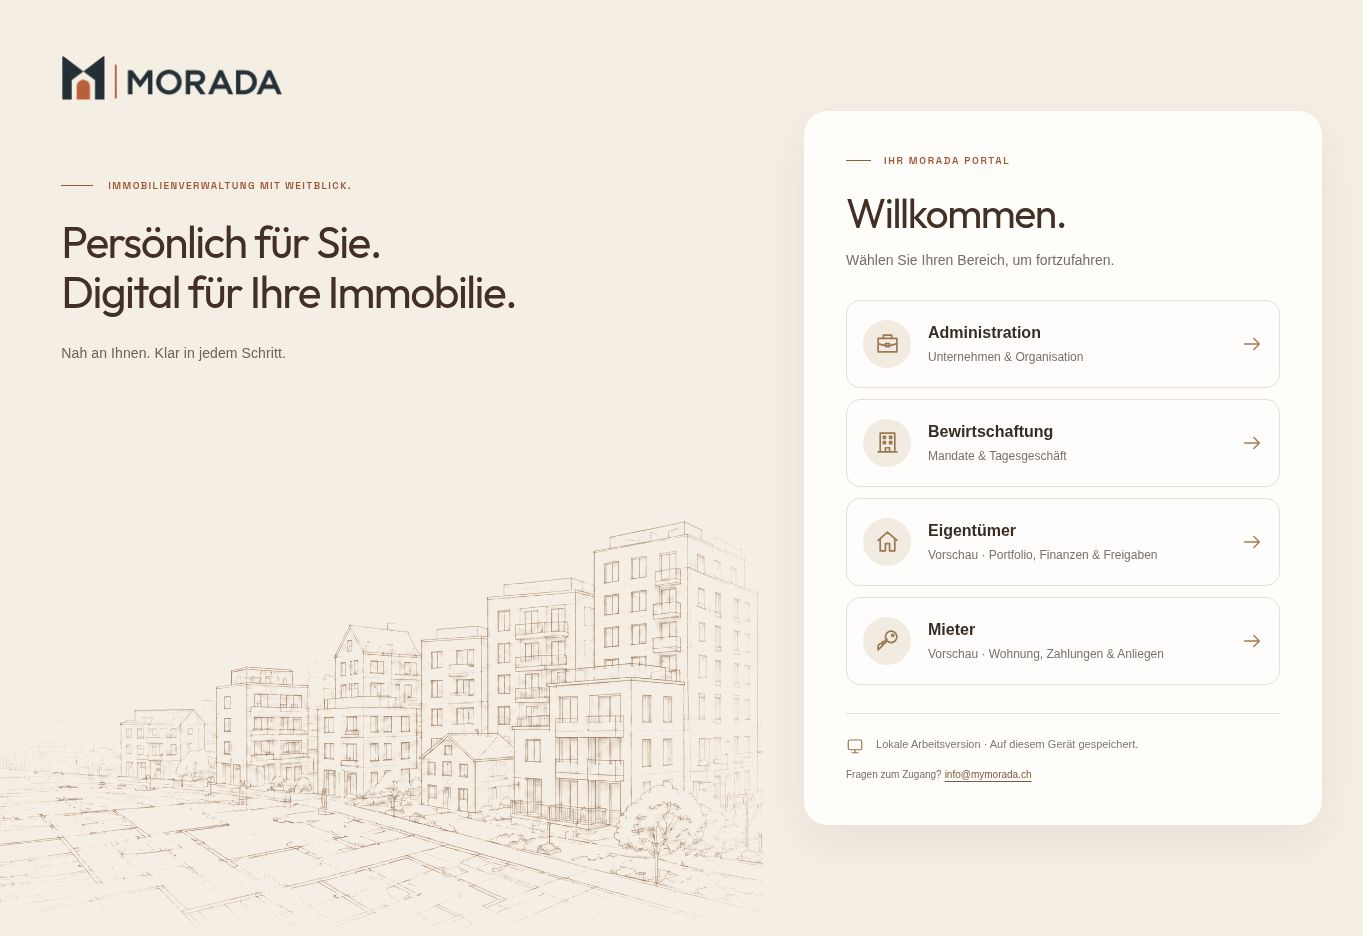
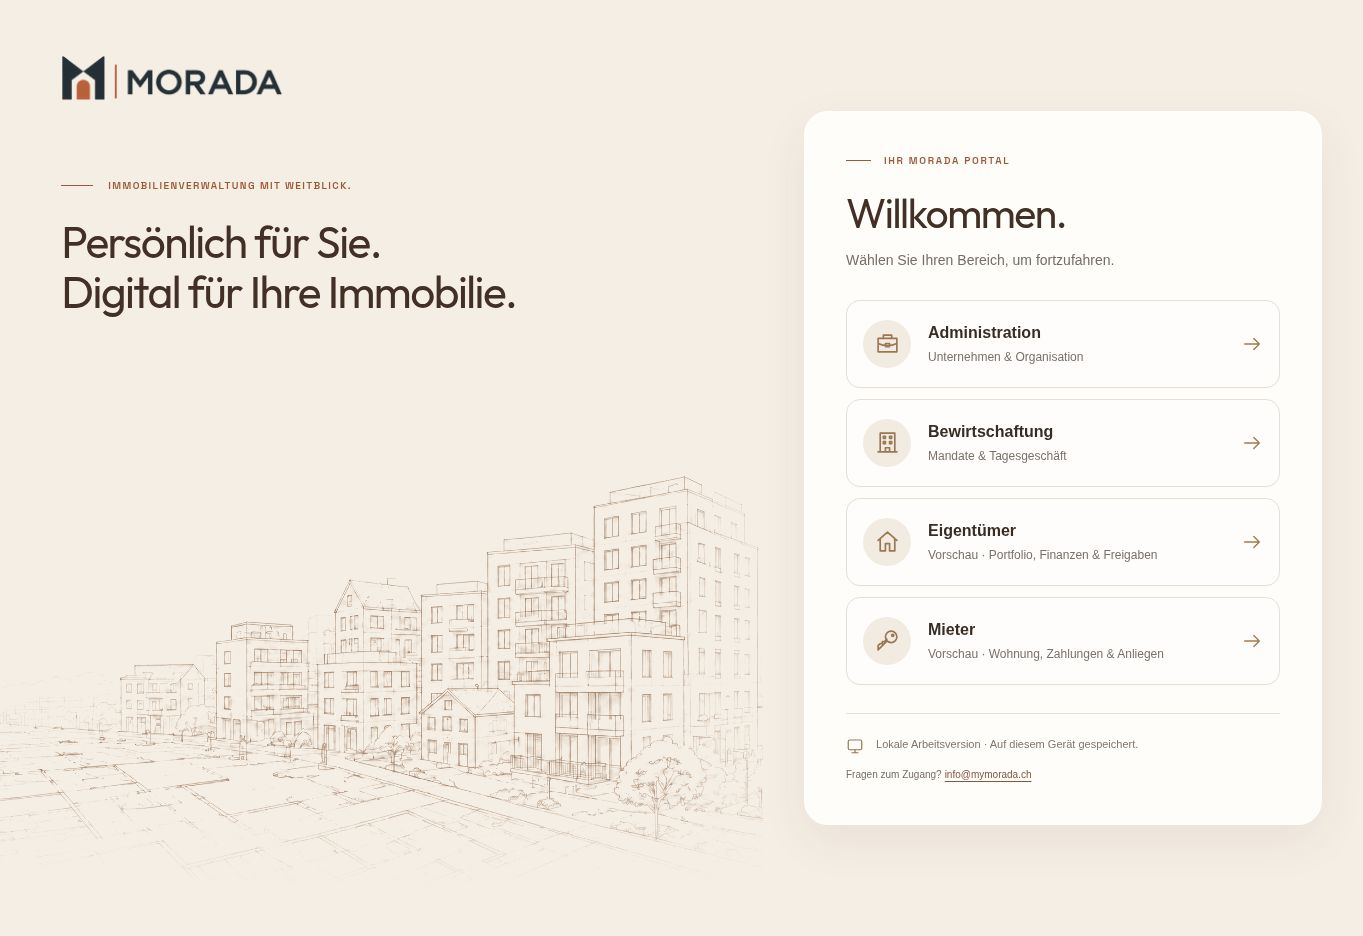
Refine entry copy and restore soft illustration fade

Changed region(s): [[0.0308, 0.5267, 0.5238, 0.9605], [0.0616, 0.3718, 0.2157, 0.4028]]

diff --git a/assets/portal-entry-scene.css b/assets/portal-entry-scene.css
@@ -31,8 +31,3 @@
  #moradaEntry .entry-scene .entry-pencil-details,#moradaEntry .entry-scene .entry-pencil-finish{animation:none;opacity:1}
  #moradaEntry .entry-motion-toggle{display:none!important}
 }
-
-/* Let the architectural foreground fill the space freed by the former tagline. */
-@media(min-width:761px){
- #moradaEntry .entry-sketch{bottom:0;mask-image:linear-gradient(to bottom,transparent 0%,#000 24%,#000 92%,transparent 100%);-webkit-mask-image:linear-gradient(to bottom,transparent 0%,#000 24%,#000 92%,transparent 100%)}
-}

diff --git a/assets/portal-entry-card.css b/assets/portal-entry-card.css
@@ -1,4 +1,5 @@
 /* Workspace selection: the existing city scene and its animation stay intact. */
+#moradaEntry .entry-subtext{display:none}
 #moradaEntry .entry-panel{padding:40px clamp(24px,3vw,54px);background:var(--entry-background)}
 #moradaEntry .entry-card{width:100%;max-width:540px;padding:clamp(28px,3vw,44px);border:1px solid #ffffffb3;border-radius:24px;background:#fffdfbf5;box-shadow:0 16px 48px #4e382412}
 #moradaEntry .entry-welcome-label{font-size:10px;letter-spacing:.17em;margin-bottom:22px}

diff --git a/docs/entry-architecture-animation.md b/docs/entry-architecture-animation.md
@@ -2,7 +2,7 @@
 
 The entry scene reveals the fine pencil marks of the existing illustration itself. Its raster source is unchanged. SVG paths are invisible reveal masks, not replacement building outlines. A colour matrix separates warm sepia ink from the paper; a very small blur softens the raster edges. This avoids the broad beige bands that would otherwise follow the masks. Both entry columns share the lighter warm beige #f5eee4 through one background token. The former column borders and local paper tint are removed, so the background runs uninterrupted behind the left-only drawing and the right-hand selection card.
 
-The decorative bottom tagline is no longer rendered. On desktop and tablet the scene is anchored at `bottom: 0`; its lower mask stays visible through 92% before a short soft fade at the page edge. This fills the space previously reserved for the tagline without changing the source image, drawing order or duration. The compact mobile header keeps its existing placement.
+The decorative bottom tagline and the sentence beneath the main title are no longer rendered. The original desktop scene placement (`bottom: 45px`) and broad lower fade (78–100%) are restored to match the selected reference. The foreground dissolves gently around the lower edge of the workspace card rather than extending strongly to the page bottom. The source image, drawing order, duration and compact mobile header placement are unchanged.
 
 The street perspective, building edges, windows, balconies and vegetation appear in overlapping, softly eased passes. The remaining fine background details settle in between 6.76 and 8.84 seconds. A shared CSS pace factor stretches every delay and duration equally by 30%, preserving the approved drawing sequence. The same filtered artwork remains on screen throughout: there is no handoff to a different image, crossfade between illustrations, camera movement or continuous loop. After completion the animations are removed and the pause control disappears.
 
@@ -12,7 +12,7 @@ The animation pauses when the tab or entry page is hidden or the artwork leaves 
 
 Validation:
 
-- Bottom-edge refinement: build and all four entry-animation tests pass. The desktop browser reports both the scene and art panel ending at y=936, no rendered tagline, and the unchanged pace factor 1.3.
+- Soft-fade refinement: build passes. Browser inspection confirms the original lower fade and scene placement, hidden subtitle and tagline, and unchanged pace factor 1.3. The four animation lifecycle tests passed before this CSS-only adjustment.
 
 - Build passes: 8200 messages; 170 script/assets checked. The four entry-animation lifecycle tests also pass after the beige/pacing refinement. The animation retains a 6.76 s delay plus 2.08 s finish (8.84 s total).
 - 16/16 entry-animation, profile and language integration tests pass, including matching source artwork, completion, decode timing, pause/resume, visibility, reduced motion, language changes and disposal.
